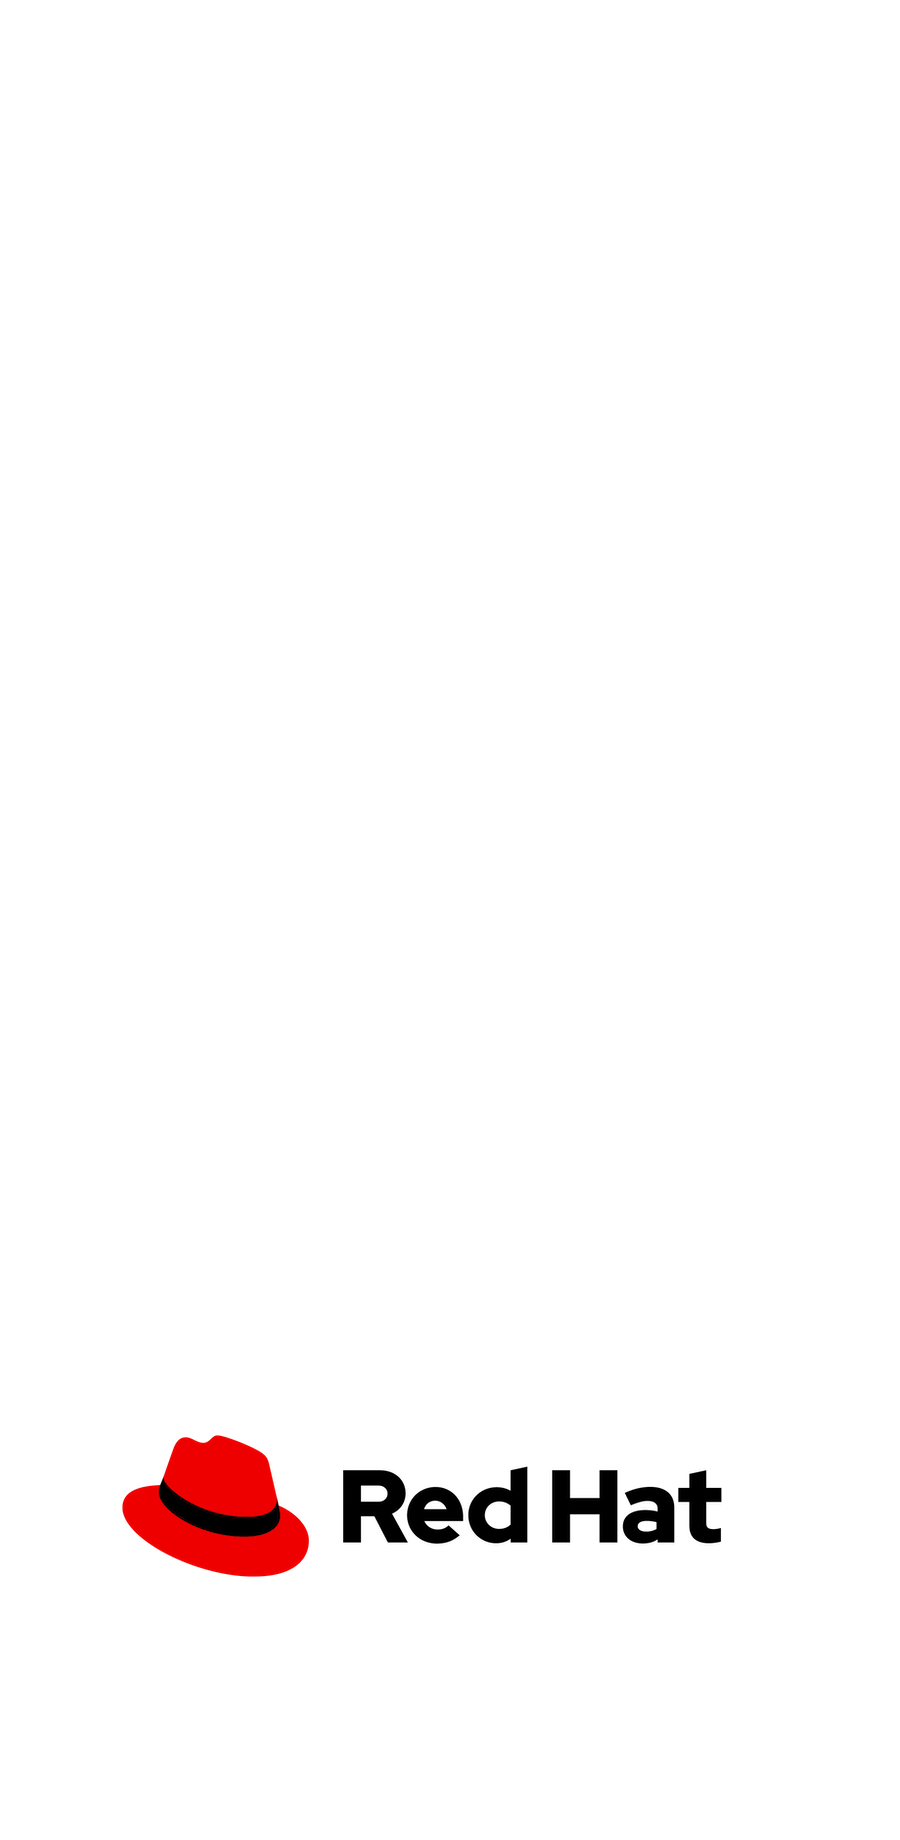
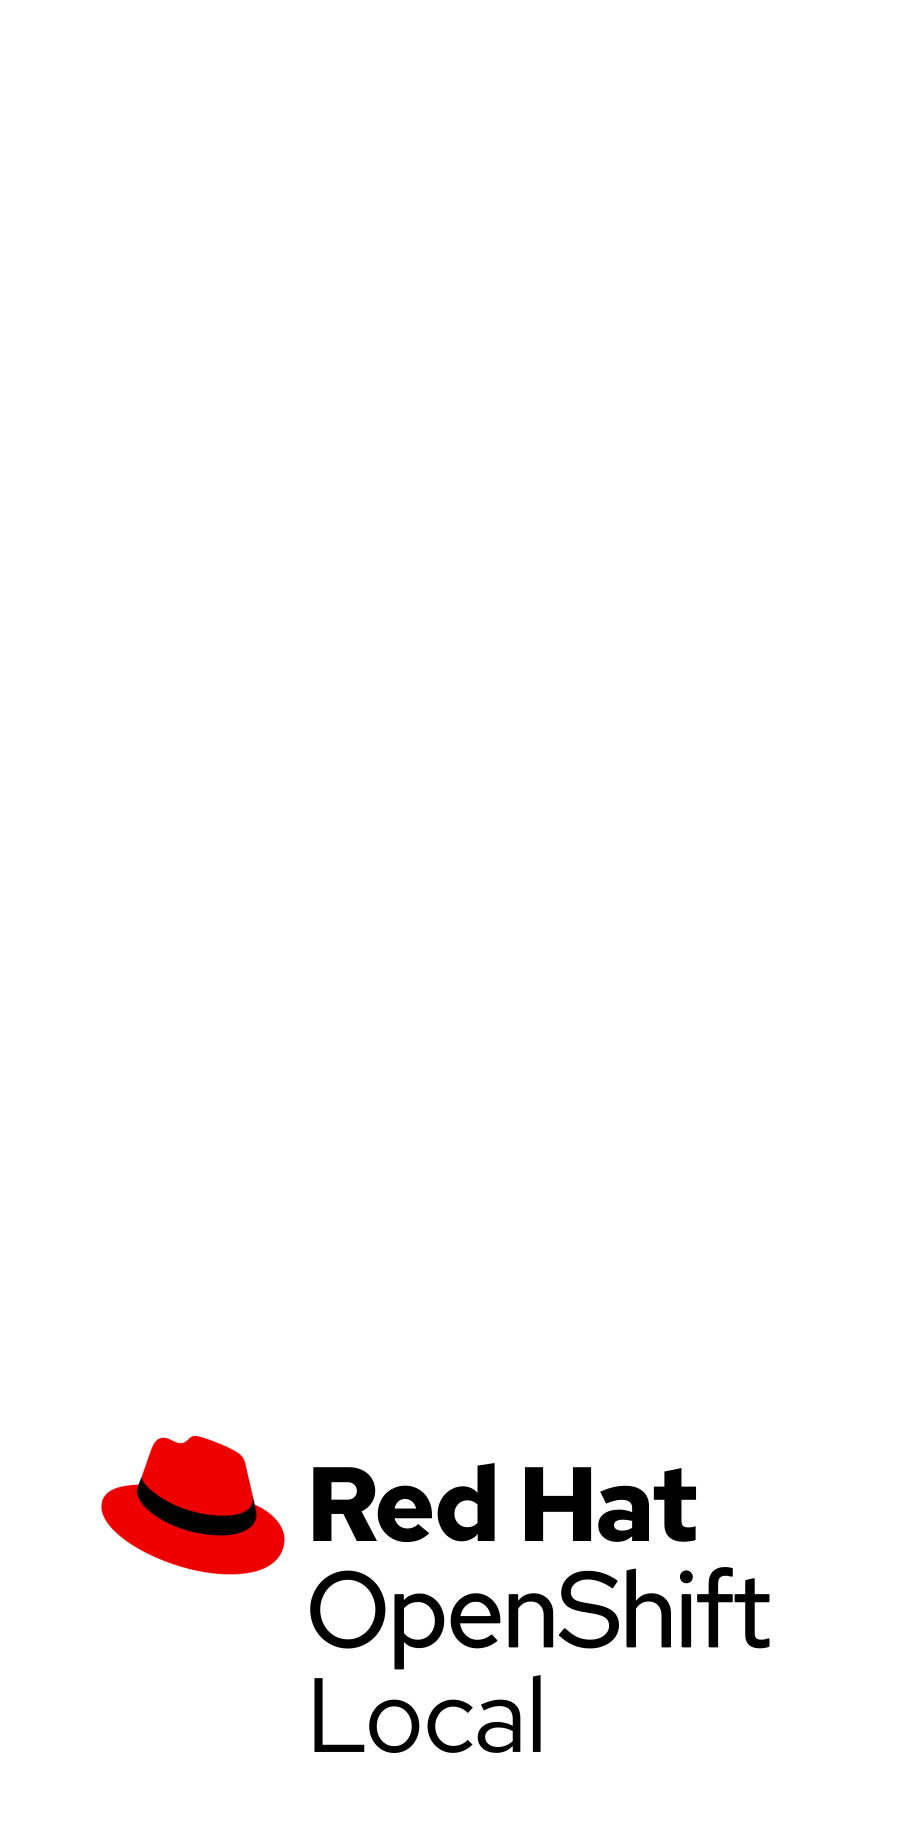
MacOS: rename to Red Hat OpenShift Local

Changed region(s): [[0.0933, 0.7745, 0.8711, 0.9603]]

diff --git a/packaging/darwin/Resources/conclusion.html b/packaging/darwin/Resources/conclusion.html
@@ -6,7 +6,7 @@
 <body>
 <div align="left" style="font-family: Helvetica; padding-left: 10px;">
     <br/>
-    <p style="color: #020202; font-size: 12px;">Thanks for installing CodeReady Containers!</p>
+    <p style="color: #020202; font-size: 12px;">Thanks for installing Red Hat OpenShift Local!</p>
     <p style="color: #020202; font-size: 12px;">You can now open CodeReady Containers from the Applications folder.</b>.</p>
 </div>
 </body>

diff --git a/pkg/crc/constants/constants_darwin.go b/pkg/crc/constants/constants_darwin.go
@@ -9,7 +9,7 @@ import (
 const (
 	OcExecutableName           = "oc"
 	PodmanRemoteExecutableName = "podman"
-	TrayExecutableName         = "CodeReady Containers.app"
+	TrayExecutableName         = "Red Hat OpenShift Local.app"
 	DaemonAgentLabel           = "com.redhat.crc.daemon"
 )
 
@@ -23,5 +23,5 @@ func TrayExecutablePath() string {
 		return filepath.Clean(filepath.Join(version.InstallPath(), "..", "MacOS", "crc-tray"))
 	}
 	// Should not be reached, tray is only supported on installer builds
-	return filepath.Clean(filepath.Join(BinDir(), "CodeReady Containers"))
+	return filepath.Clean(filepath.Join(BinDir(), "Red Hat OpenShift Local"))
 }

diff --git a/test/extended/crc/ux/tray/tray_unix.go b/test/extended/crc/ux/tray/tray_unix.go
@@ -25,7 +25,7 @@ const (
 	runOCLoginCommand      string = "runOCLoginCommand.applescript"
 
 	bundleIdentifier string = "com.redhat.codeready.containers"
-	appPath          string = "/Applications/CodeReady Containers.app"
+	appPath          string = "/Applications/Red Hat OpenShift Local.app"
 
 	uxCheckAccessibilityDuration = "2s"
 	uxCheckAccessibilityRetry    = 10
